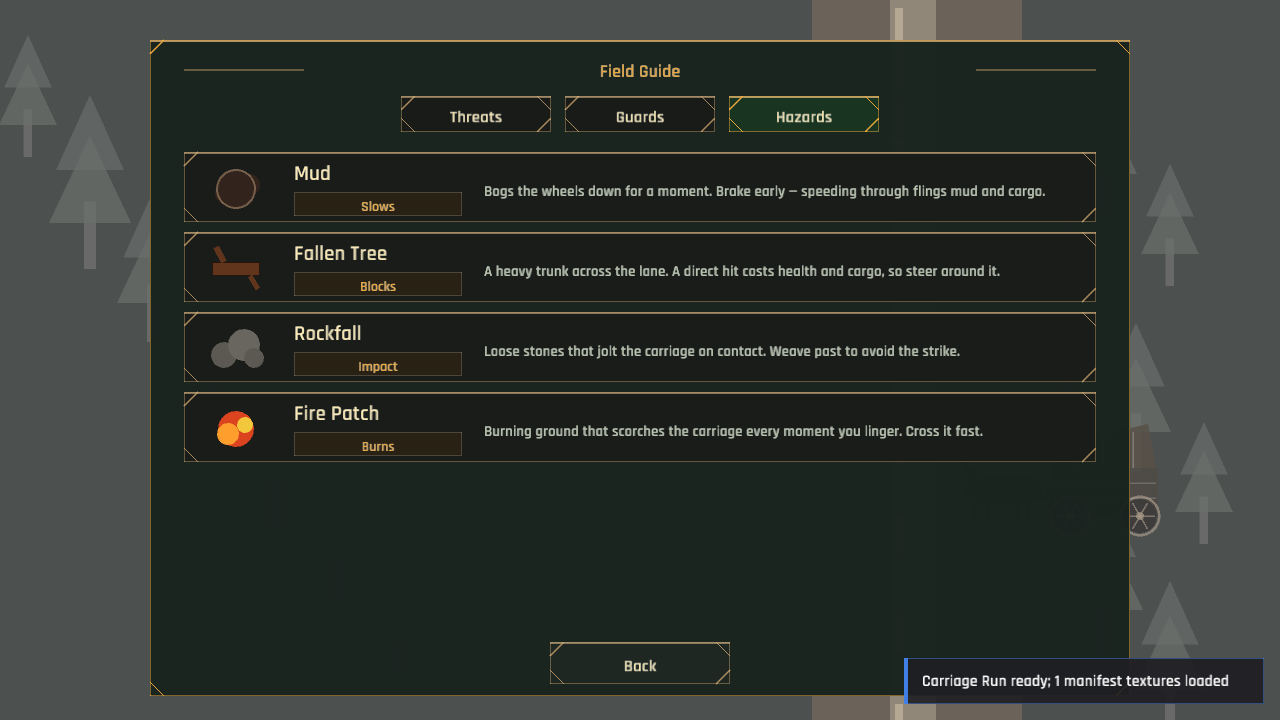
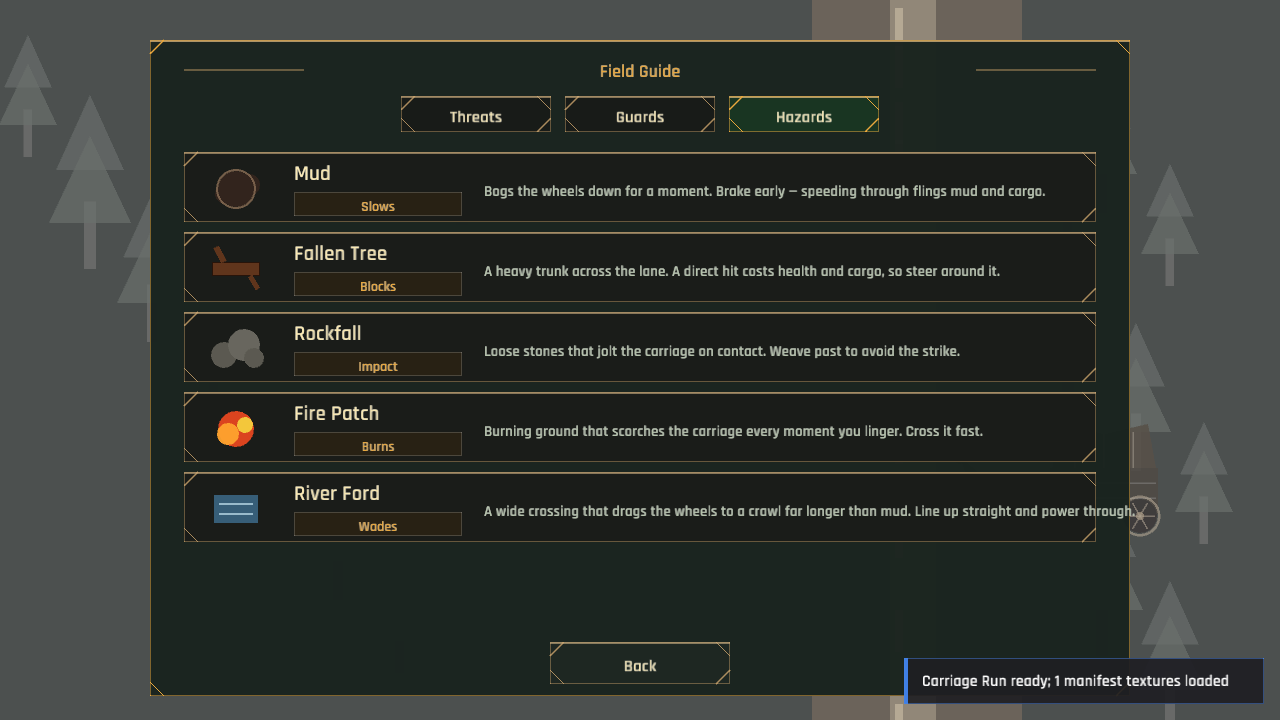
Add the River Ford hazard
Roadmap B2 (content volume): a fifth road hazard. River Ford is a wide
crossing that drags the wheels to a long, strong slow (~2.1s) with no
damage — distinct from mud's brief dip — nudging the player to line up
and power through. Added to Medicine Run (Marsh Road) and the Field
Guide.

- New HazardKind::RiverFord across all match sites (size, collision
  effect, label/effect-tag/blurb, draw + icon); "river_ford" resolves via
  from_id so the content validator accepts it.
- Roadmap: B2 marked partial (1 of 2-3) with a progress-log note.
- Fresh Hazards Field Guide screenshot.

Changed region(s): [[0.375, 0.7028, 0.9062, 0.7333], [0.1562, 0.6722, 0.3125, 0.7639]]

diff --git a/src/ui/gameplay.rs b/src/ui/gameplay.rs
@@ -361,6 +361,26 @@ pub(super) fn draw_hazard_icon(kind: HazardKind, pos: Vec2) {
                 Color::new(0.96, 0.80, 0.20, 0.95),
             );
         }
+        HazardKind::RiverFord => {
+            draw_rectangle(
+                pos.x - 22.0,
+                pos.y - 14.0,
+                44.0,
+                28.0,
+                Color::new(0.16, 0.34, 0.46, 0.92),
+            );
+            for i in 0..2 {
+                let y = pos.y - 5.0 + i as f32 * 10.0;
+                draw_line(
+                    pos.x - 17.0,
+                    y,
+                    pos.x + 17.0,
+                    y,
+                    2.0,
+                    Color::new(0.62, 0.80, 0.88, 0.7),
+                );
+            }
+        }
     }
 }
 
@@ -461,6 +481,28 @@ fn draw_hazard(hazard: &Hazard) {
                 hazard.radius * 0.46,
                 Color::new(0.96, 0.80, 0.20, alpha),
             );
+        }
+        HazardKind::RiverFord => {
+            let rect = hazard.rect();
+            draw_rectangle(
+                rect.x,
+                rect.y,
+                rect.w,
+                rect.h,
+                Color::new(0.16, 0.34, 0.46, 0.72),
+            );
+            // Ripple lines across the ford.
+            for i in 0..3 {
+                let y = rect.y + rect.h * (0.28 + i as f32 * 0.22);
+                draw_line(
+                    rect.x + 8.0,
+                    y,
+                    rect.right() - 8.0,
+                    y,
+                    2.0,
+                    Color::new(0.62, 0.80, 0.88, 0.55),
+                );
+            }
         }
     }
 }

diff --git a/src/state/entities.rs b/src/state/entities.rs
@@ -629,11 +629,19 @@ pub enum HazardKind {
     FallenTree,
     Rocks,
     FirePatch,
+    /// A wide river crossing that drags the wheels to a long crawl.
+    RiverFord,
 }
 
 impl HazardKind {
-    pub fn all() -> [Self; 4] {
-        [Self::Mud, Self::FallenTree, Self::Rocks, Self::FirePatch]
+    pub fn all() -> [Self; 5] {
+        [
+            Self::Mud,
+            Self::FallenTree,
+            Self::Rocks,
+            Self::FirePatch,
+            Self::RiverFord,
+        ]
     }
 
     pub(super) fn from_id(id: &str) -> Option<Self> {
@@ -642,6 +650,7 @@ impl HazardKind {
             "fallen_tree" => Some(Self::FallenTree),
             "rocks" => Some(Self::Rocks),
             "fire_patch" => Some(Self::FirePatch),
+            "river_ford" => Some(Self::RiverFord),
             _ => None,
         }
     }
@@ -652,6 +661,7 @@ impl HazardKind {
             Self::FallenTree => "Fallen Tree",
             Self::Rocks => "Rockfall",
             Self::FirePatch => "Fire Patch",
+            Self::RiverFord => "River Ford",
         }
     }
 
@@ -662,6 +672,7 @@ impl HazardKind {
             Self::FallenTree => "Blocks",
             Self::Rocks => "Impact",
             Self::FirePatch => "Burns",
+            Self::RiverFord => "Wades",
         }
     }
 
@@ -676,6 +687,9 @@ impl HazardKind {
             Self::Rocks => "Loose stones that jolt the carriage on contact. Weave past to avoid the strike.",
             Self::FirePatch => {
                 "Burning ground that scorches the carriage every moment you linger. Cross it fast."
+            }
+            Self::RiverFord => {
+                "A wide crossing that drags the wheels to a crawl far longer than mud. Line up straight and power through."
             }
         }
     }
@@ -698,6 +712,7 @@ impl Hazard {
             HazardKind::FallenTree => (0.0, vec2(190.0, 36.0)),
             HazardKind::Rocks => (26.0, vec2(54.0, 42.0)),
             HazardKind::FirePatch => (34.0, vec2(74.0, 48.0)),
+            HazardKind::RiverFord => (46.0, vec2(150.0, 66.0)),
         };
 
         Self {

diff --git a/src/state/mission/combat.rs b/src/state/mission/combat.rs
@@ -360,6 +360,17 @@ impl MissionRun {
                         impacts.push((8.5 * dt, 2.4 * dt, label));
                     }
                 }
+                HazardKind::RiverFord => {
+                    // A long, strong slow — no real damage, just lost time and a
+                    // small cargo jostle on entry.
+                    if hazard.pos.distance(self.carriage.pos) <= hazard.radius + 40.0 {
+                        self.carriage.slow_timer = 2.1;
+                        if !hazard.triggered {
+                            hazard.triggered = true;
+                            impacts.push((0.0, 2.0, "River ford slowed the wheels"));
+                        }
+                    }
+                }
             }
         }
 

diff --git a/COMMERCIAL_READINESS_ROADMAP.md b/COMMERCIAL_READINESS_ROADMAP.md
@@ -44,6 +44,7 @@ The workspace `standing.md` estimates **4–7 months to finish** — consistent 
 
 Shipped and committed to `master` this cycle (checkboxes below updated to match):
 
+- **B2 New hazards** — River Ford (a wide forced-slow crossing) added to Medicine Run and the Field Guide. *(partial — 1 of 2–3 new hazards)*
 - **A5 Elite enemies** — Alpha Wolf (elite charging wolf: tougher/faster, red-eyed sprite) added to Refugee Escort and the Field Guide. *(partial — 1 of 2–3 elites; bosses remain)*
 - **A2 Endgame economy** — Reinforced Kit consumable (+55 health for one route), a repeatable gold sink bought in the shop. *(done)*
 - **A6 Difficulty presets** — Relaxed / Standard / Hard scaling the mission difficulty scalar. *(done)*
@@ -115,7 +116,7 @@ No difficulty setting exists. For a commercial audience:
 First-clear is ~90 minutes. A $10–15 premium title needs 6–10 hours of designed content plus the expedition treadmill.
 
 - [ ] 🟠 **B1. Campaign expansion to ~24–30 missions across 3 acts/biomes** (forest → highlands → cursed marsh, or similar). Biomes matter more than mission count: new hazard sets, enemy palettes, and road visuals per act make content *feel* different. Mission data is fully JSON-driven (`missions.json`) so the cost is design + art, not engineering.
-- [ ] 🟠 **B2. New hazards** (2–3 per new biome): current 4 (mud/tree/rock/fire) are one act's worth. Candidates: river fords (forced slow), rockslides (telegraphed lane denial), cursed fog (vision), night stretches (pairs with Warding Lantern equipment).
+- [ ] 🟠 **B2. New hazards** (2–3 per new biome): current 4 (mud/tree/rock/fire) are one act's worth. Candidates: river fords (forced slow), rockslides (telegraphed lane denial), cursed fog (vision), night stretches (pairs with Warding Lantern equipment). *(partial — River Ford shipped)*
 - [ ] 🟡 **B3. 2–3 new guard classes** (e.g. Halberdier, Falconer, Cleric) — the 6-class system with per-star abilities is the game's best-realized system; extending it is high-value-per-effort.
 - [ ] 🟡 **B4. 1–2 new chassis** (e.g. Armored Coach, Sled variant for a snow biome) + 3–4 new equipment items so 4-slot choices stay contested (`equipment.rs:5-13` currently has exactly 6 items for up to 4 slots).
 - [ ] 🟡 **B5. Campaign finale**: a designed final mission with a boss (A5) and an ending screen — the campaign currently just… runs out of missions.